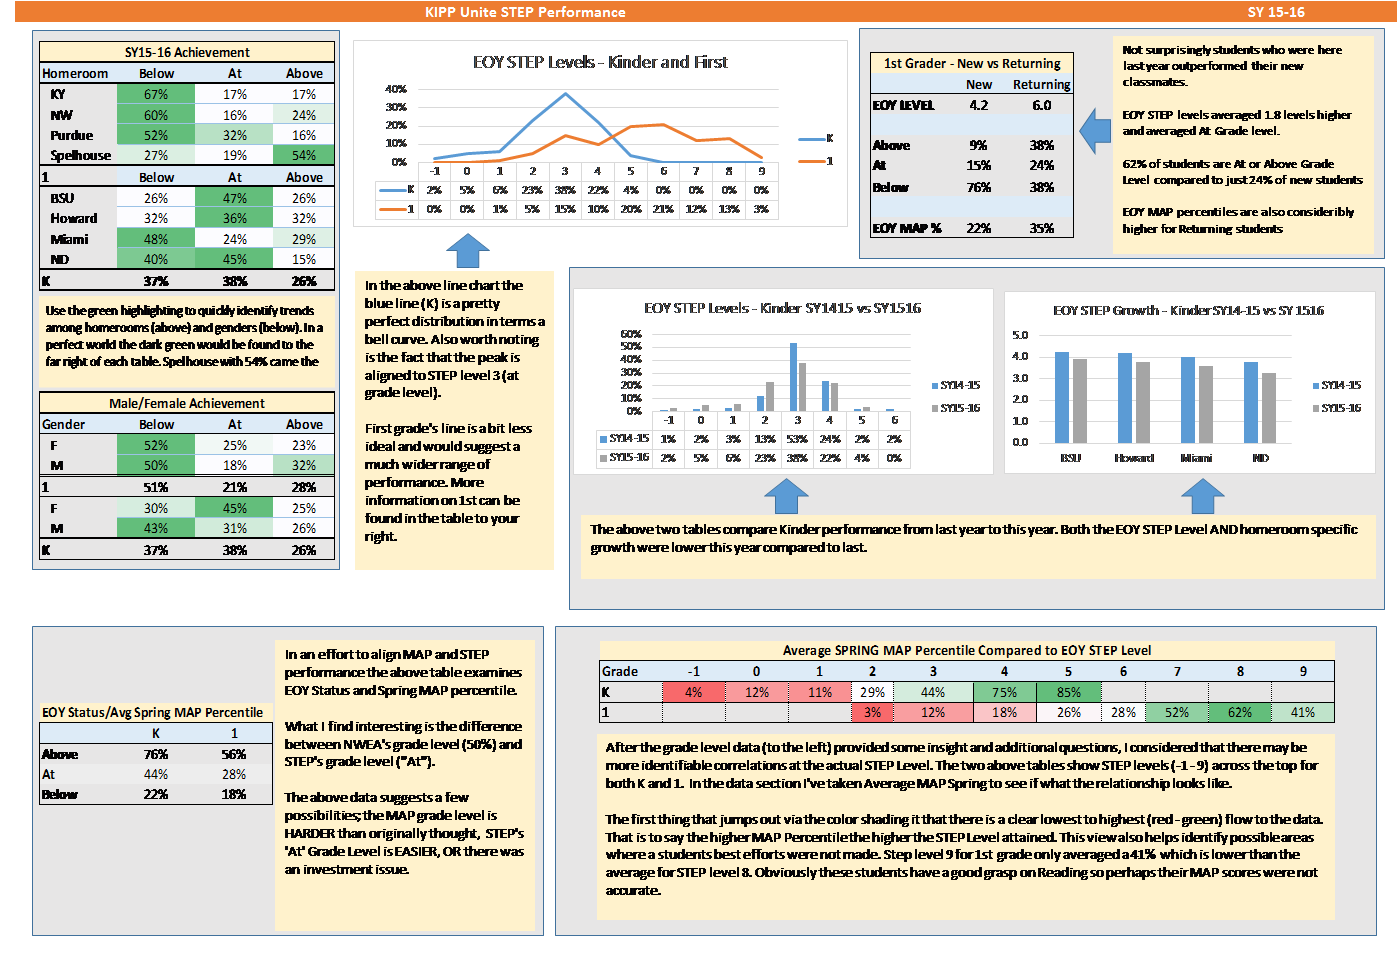
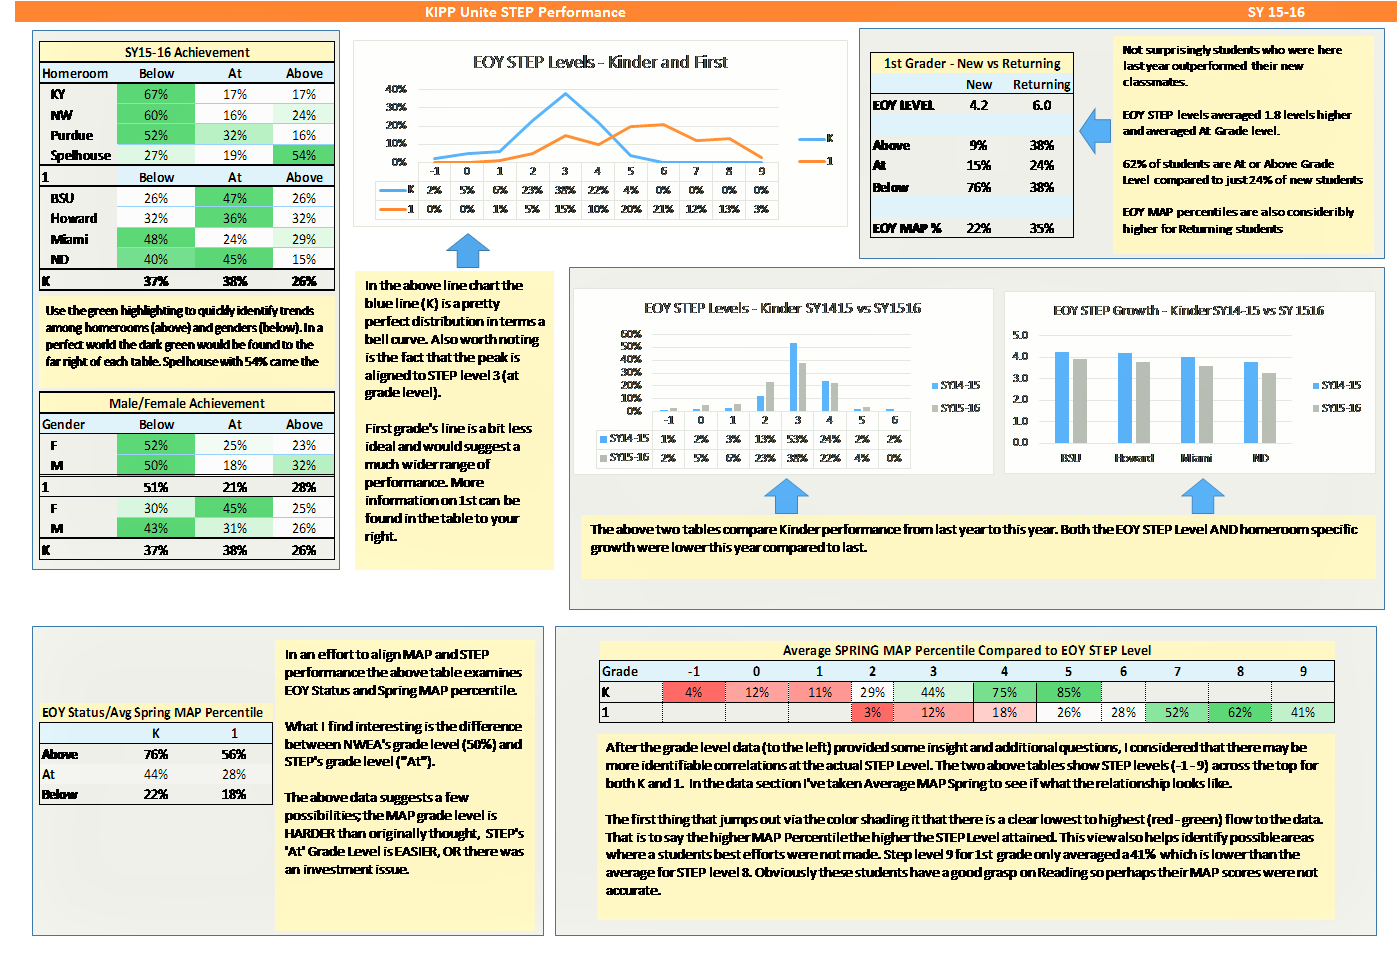
updated portfolio section

diff --git a/index.html b/index.html
@@ -418,7 +418,7 @@
                             <h2>Business Analytics</h2>
                             <hr class="star-primary">
                             <img src="img/portfolio/analytics.png" class="img-responsive img-centered" alt="">
-                            <p>Here's a small example of some reporting work performed in Excel. The objective of this particular report was to provide analysis of student achievement. </p>
+                            <p>Here's a small example of some reporting work performed in Excel. The objective of this particular <a href="analytics.html" target="onclick">report</a> was to provide analysis of student achievement. </p>
                             <ul class="list-inline item-details">
                                 <li>Client:
                                     <strong>Elementary Charter School

diff --git a/analytics.html b/analytics.html
@@ -1,0 +1,10 @@
+<html>
+<head>
+	<title>Excel Analytics</title>
+</head>
+<body>
+	<center>
+		<img src="img/portfolio/analytics.png" alt="" style="width:1200px">
+</center>
+</body>
+</html>
